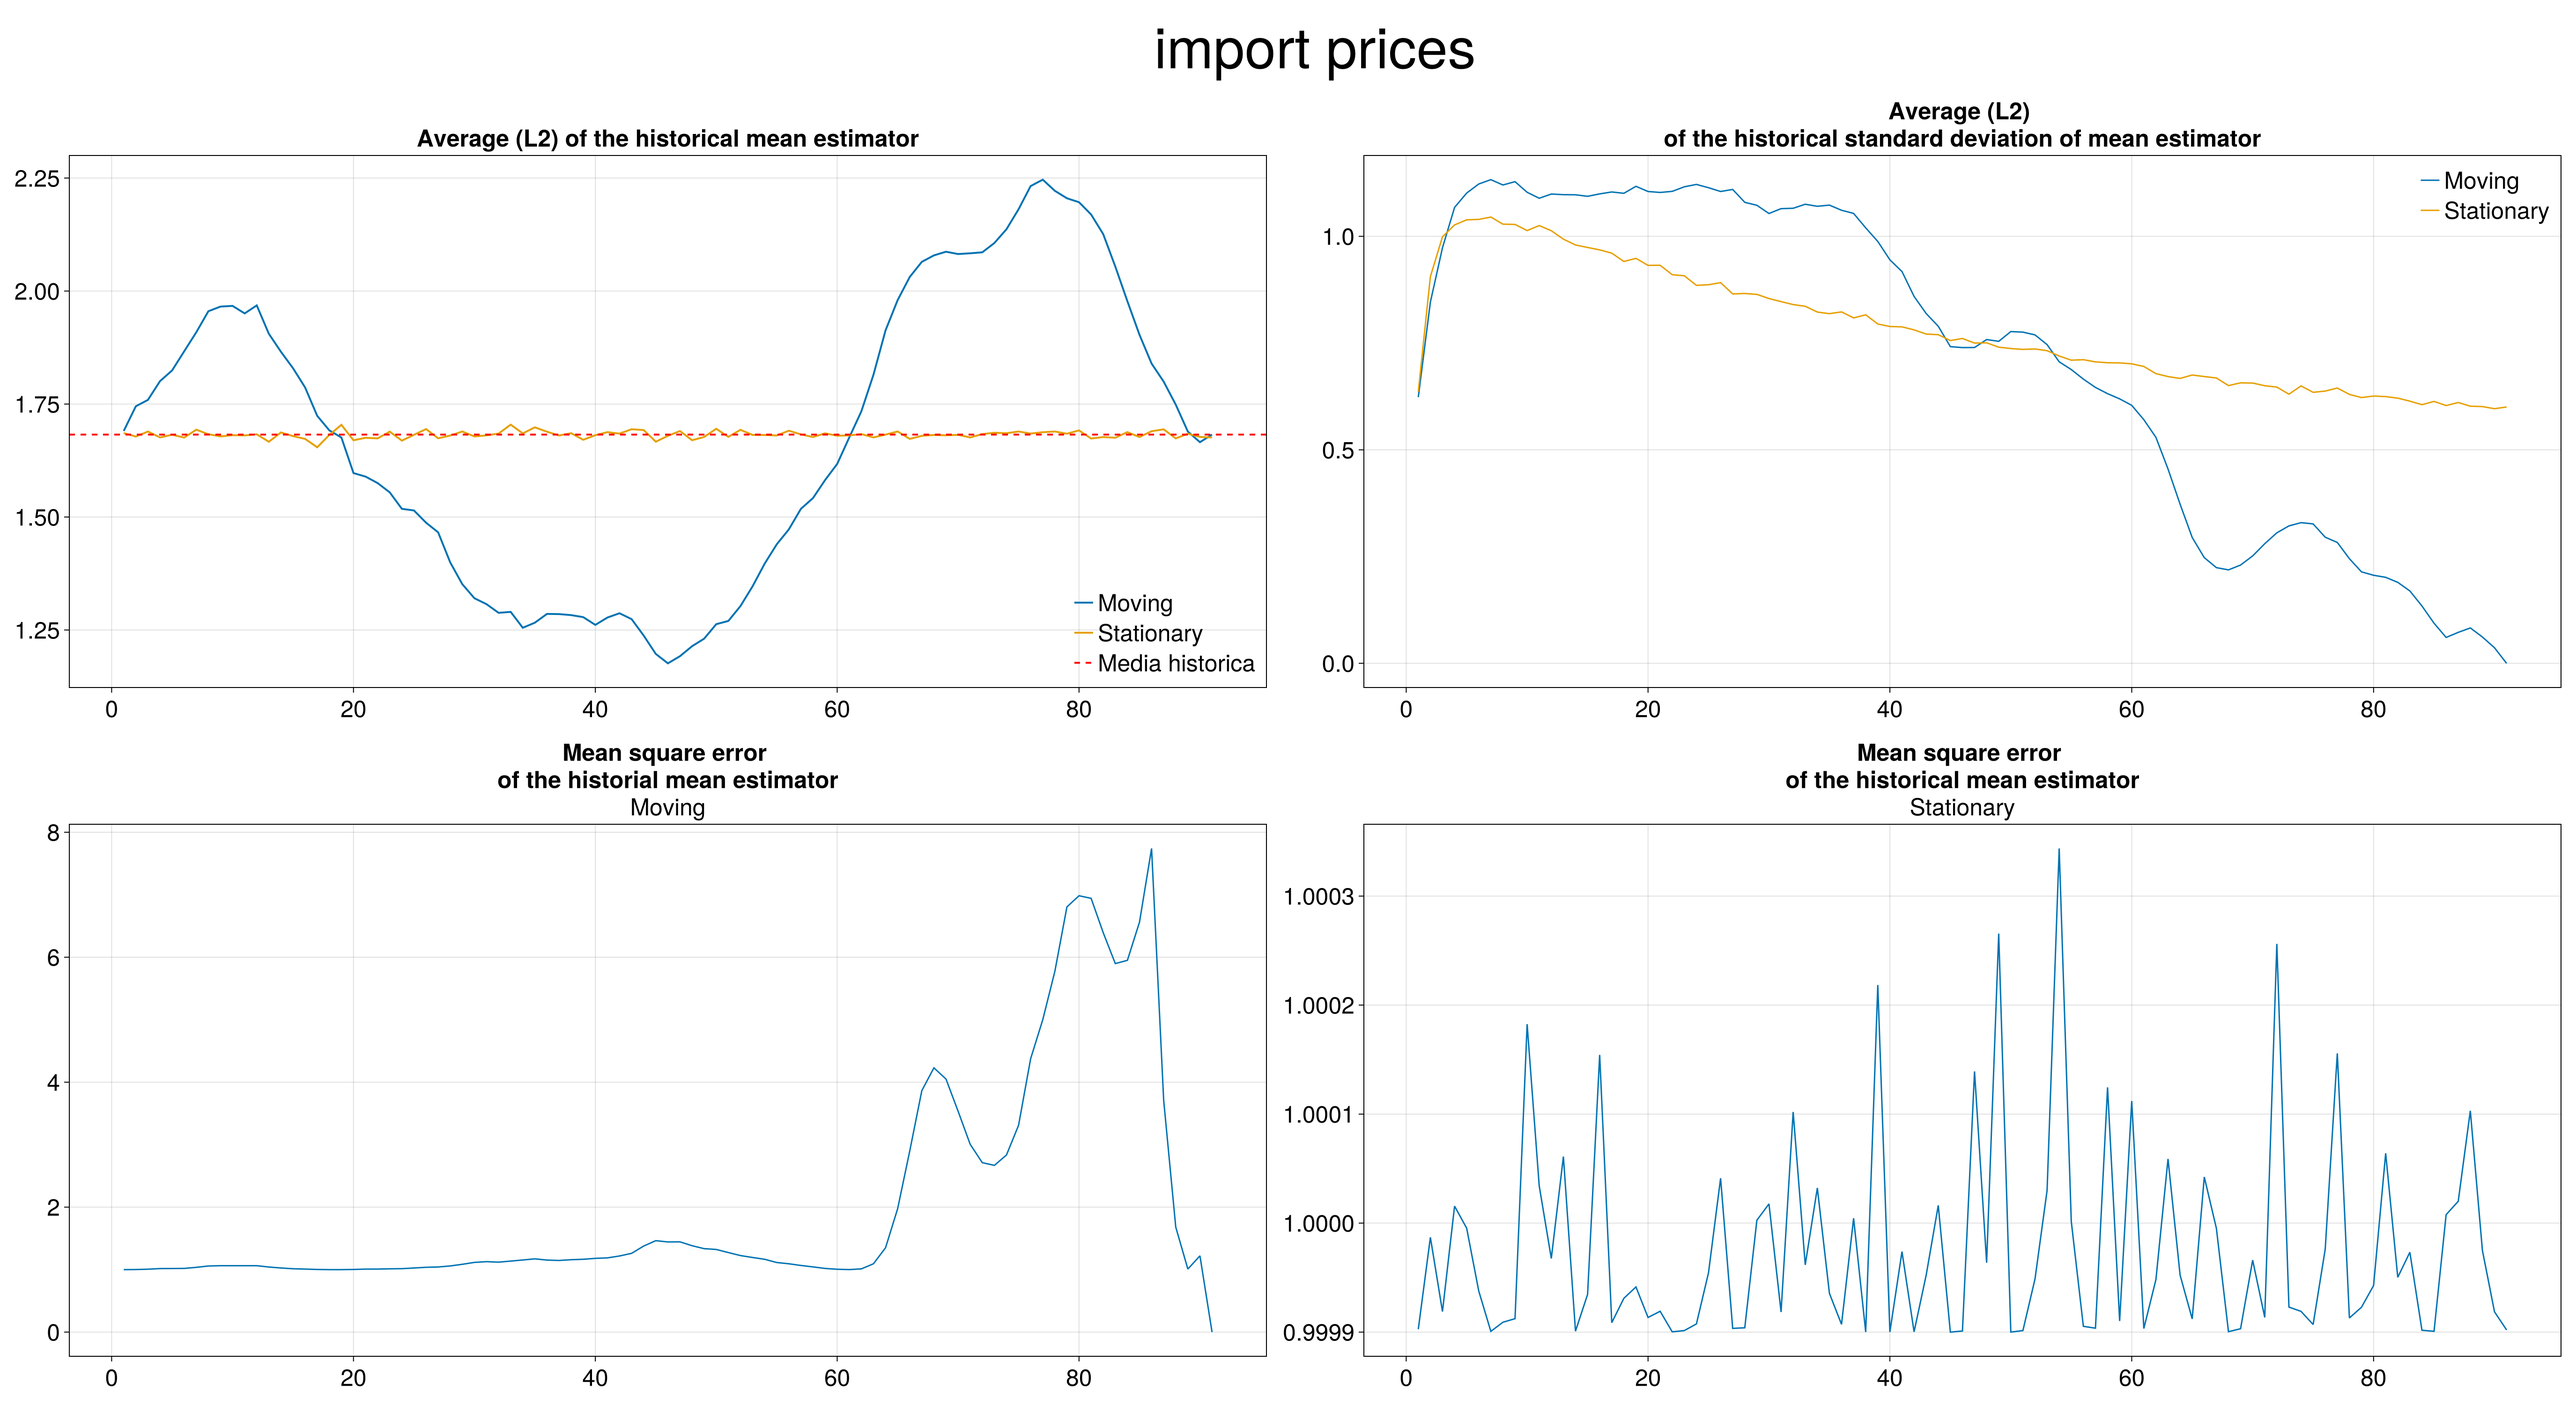
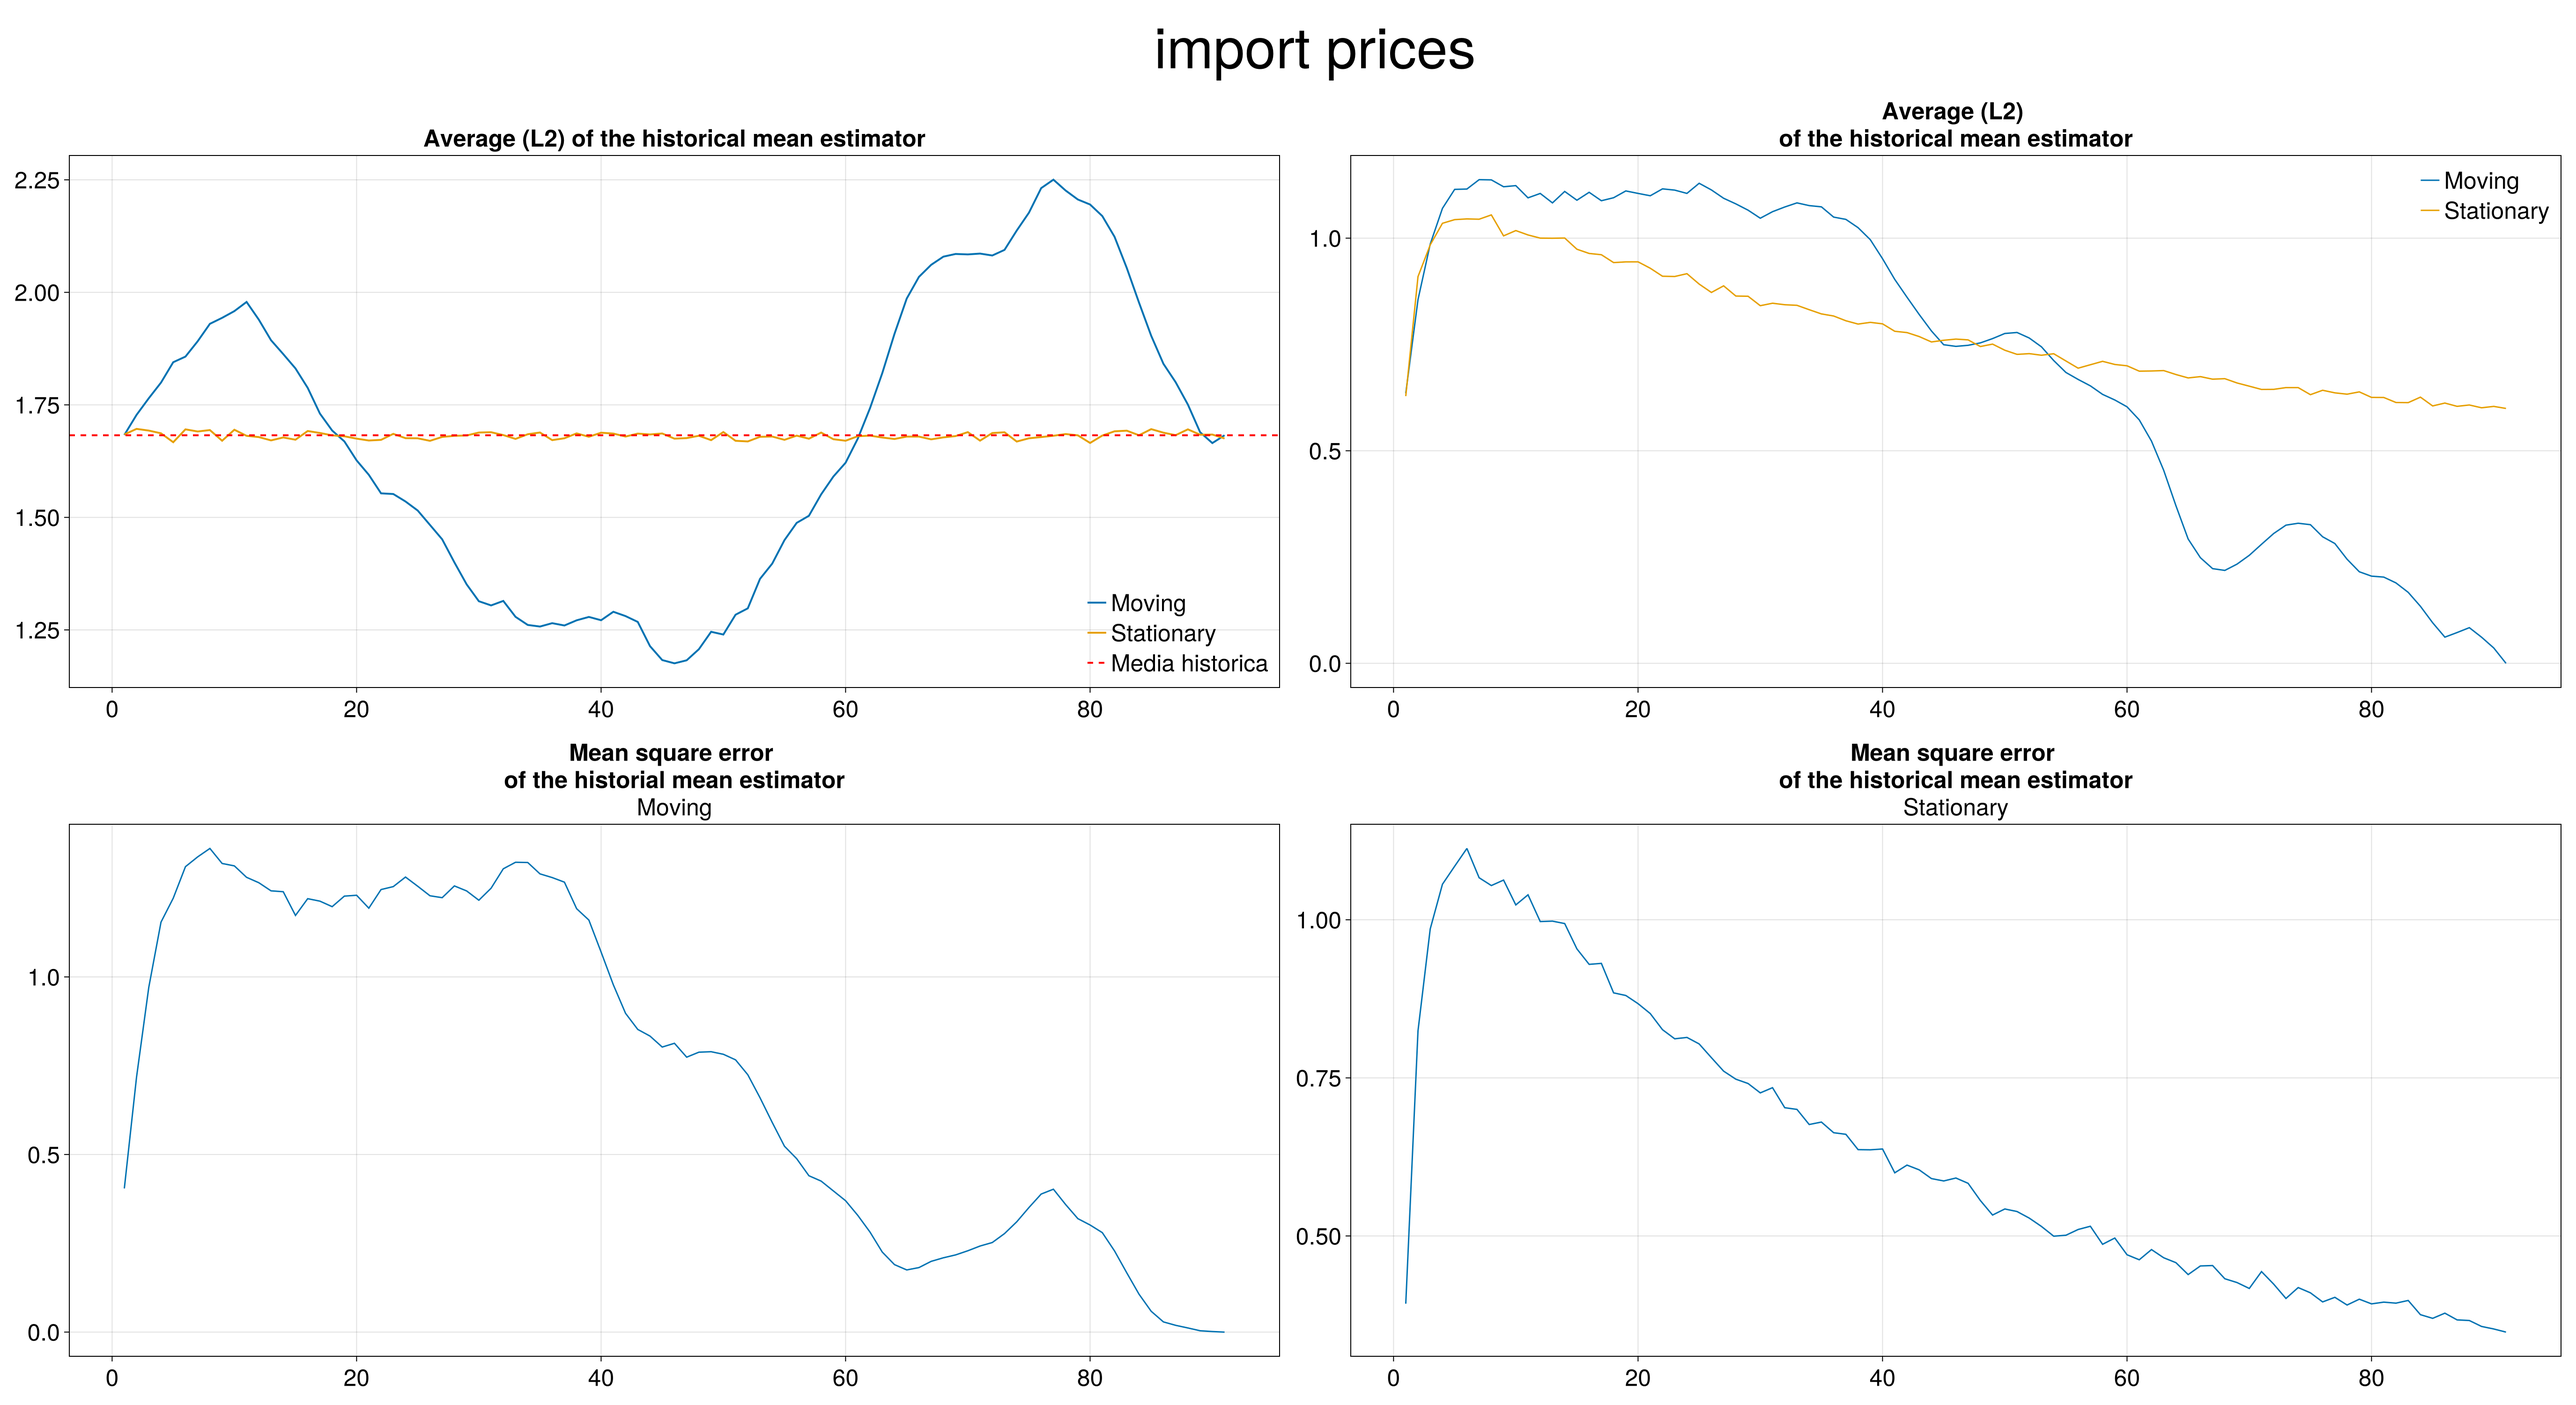
acf analysis
Pending covariance analysis

diff --git a/docs/src/block_bootstrap_exercise.md b/docs/src/block_bootstrap_exercise.md
@@ -25,17 +25,15 @@ In our exercise, the objetive is to sample pseudo datasets using bootstrapping m
 
 The time series considered are year-on-year rates of change, in quarterly frequency, of the following variables:
 
-(Agregar en esta lista los D4L_<> correspondientes)
-
-1. Real GDP of the US
-2. PCE core inflation
-3. Effective Federal Funds Rate
-4. Domestic real GDP
-5. Total domestic inflation
-6. Domestic core inflation
-7. Exchange rate (GTQ/USD)
-8. Monetary base
-9. Monetary policy rate
+1. Real GDP of the US (D4L_GDP_RW)
+2. PCE core inflation (D4L_CPI_RW)
+3. Effective Federal Funds Rate (RS_RW)
+4. Domestic real GDP (D4L_GDP)
+5. Total domestic inflation (D4L_CPI)
+6. Domestic core inflation (D4L_CPIXFE)
+7. Exchange rate (GTQ/USD) (D4L_S)
+8. Monetary base (D4L_MB)
+9. Monetary policy rate (RS)
 
 In order to generate robust results in this exercise, we generated 10,000 pseudo time series across a window of possible block lengths. To check the correct replication of the statistical properties, we computed important statistics for our purposes. These are:
 
@@ -44,20 +42,19 @@ In order to generate robust results in this exercise, we generated 10,000 pseudo
 3. The autocorrelation fuction up to 12 lags (or 3 years in quarterly frequency).
 4. The correlation matrix between covariates.
 
-For each bootstrap replication (pseudo time series for a given block length), we compute the above statistics and compare them to the statistics obtained from the actual sample. 
-The idea is to compare the error that a given boostrap method (and its corresponding parametrization) gives in replicating the statistical properties of each time series. 
+For each bootstrap replication (pseudo time series for a given block length), we compute the above statistics and compare them to the statistics obtained from the actual sample. The idea is to compare the error that a given boostrap method (and its corresponding parametrization) gives in replicating the statistical properties of each time series. 
 
-The (unnormalized) MSE measures the error for one series and probably the error in all series if we decide to average all series. However, we consider it is not the best way to measure the error if we have statistics with different scales. 
+The (unnormalized) MSE measures the error for one series and probably the error in all series if we decide to average all series. However, we consider it is not the best way to measure the error if we have statistics with different scales.
 
 (Modificar para que se parezca a la segunda pero sin normalizar)
 
-$MSE=\frac{1}{B}\sum_{i=1}^{B}\hat{\theta}_i-\theta$
+$\text{MSE}\left(\hat\theta_{i}^{m}\right)=\frac{1}{B}\sum_{b=1}^{B}\left(\hat{\theta}_{i}^{m,(b)}-\theta_{i}\right)^{2}$
 
 As we want to generate a measure that combines an overall error in all statistics, we implemented a normalized MSE, which transforms the MSE by the standard deviation of the estimator in all replications. 
 This modification allows us aggregating the error for statistics of different scales. 
 So, we calculate a normalized mean square error to measure the error between the sample statistic and the original sample statistic, in relation to the variance of the sample statistic under a given bootsrap method. The normalized MSE is definen as follows:
 
-$\text{MSE}\left(\hat\theta_{i}^{m}\right)=\frac{1}{B}\sum_{b=1}^{B}\frac{\hat{\theta}_{i}^{m,(b)}-\theta_{i}}{\hat\sigma_{i}^{m}}$
+$\text{MSE}\left(\hat\theta_{i}^{m}\right)=\frac{1}{B}\sum_{b=1}^{B}\left(\frac{\hat{\theta}_{i}^{m,(b)}-\theta_{i}}{\hat\sigma_{i}^{m}}\right)^{2}$
 
 where:
 - $i$ is the number of bootstrap replication. 
@@ -80,21 +77,30 @@ The first plot shows the average of the original MSE of all series and the secon
 However, for the normalized MSE and for all possible block lengths, the mean estimator obtained by SBB is consistently close to one, which means that the estimator has low bias for every block length $l$ considered. 
 Note the mean estimator of the MBB starts close to one for small block lengths, it consistently deviates from one as the block length gets larger.
 
-(En las gráficas, llamar solo "MSE" al que no normaliza (quitar "Original"). Sincronizar los ejes de la primera gráfica (hay un comando en Makie para eso). Quitar título central superior. Agregar etiqueta eje X: Block length $l$)
-
-![](images/simulation_study/mean/Original_MSE.png)
-![](images/simulation_study/mean/Modified_MSE.png)
+![](images/simulation_study/mean/all_MSE.png)
+![](images/simulation_study/mean/all_normalized_MSE.png)
 
 As we said before, we prefer the normalized MSE metric since it allows us to average the error among covariates and aggregate across various statistics of interest.
 
-## Results for the sample standard deviation
+## Results for the sample variance
 
 For the sample variance of the covariates, we follow a similar procedure for comparing between block bootstrap methods as the one used for the sample mean. 
 
-(Gráficas MSE)
-(Gráficas MSE normalizado)
+![](images/simulation_study/variance/all_MSE.png)
+![](images/simulation_study/variance/all_normalized_MSE.png)
 
-(Descripción de las gráficas)
-(Conclusión)
+Let us note how the MSE behavior of the sample variance estimator in the MMB method is more volatile than the SBB method. This is true for the unnormalized MSE as well as for the normalized MSE. In both cases we prefer the SBB method as the most apropiate method to replicate the sample variance. But the analysis is incomplete, we need the results of norrmalized MSE of mean, autocorrelation fuction and covariance matrix to determinate the best method to replicate the estistics of interest.
 
-<!-- Use the folder images/simulation_study for the images of the presentation -->
+## Results of the sample autocorrelation function
+For the autocorrelation fuction analysis we have an additional dimention, the lags of the variable itsel, to determinate the error with respect to the sample autocorrelation fuction. In our excercise we consider 12 lags to generate the sample autocorrelation function estimator. In particular we have an arrage of dimension $13\tex{x}10\tex{x}40\tex{x}10000$:
+}
+- 12 lags plus lag 0
+- 10 variables
+- 40 possible block lengths
+- 10,000 pseudo time series (block bootstrap series)
+
+We mesure the MSE for all possible block lengths in the same way that mean an variance analysis, but the difference is we have an additional dimention. To measure the MSE we calculate a weighted average over the lags. All weights decay exponentially.
+
+![](images/simulation_study/autocorr/agg_acf_mse_method=stationary_moving.png)
+![](images/simulation_study/autocorr/agg_acf_norm_mse_method=stationary_moving.png)
+
